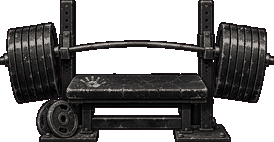
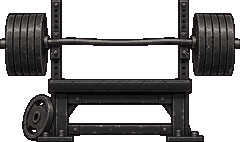
A rack of rivets and a bench in two projections
The dumbbell rack came back with a dozen dumbbells a shelf on a sprite 117
logical px wide - 9 px each - so the small end read as a row of rivets and the
big end as boulders. That was my prompt: three tiers, packed end to end,
visibly enormous from left to right. It is five a shelf now, each as deep as
the shelf gap, largest under twice the smallest.

And the bench was drawn in two projections at once: the frame in flat side
elevation, the pad in three quarter with its top face visible and a chalk
handprint lying on a surface you cannot see from the side. The style block
already said side view; it has to be told explicitly that nothing shows its top
and nothing shows its far side.

diff --git a/CLAUDE.md b/CLAUDE.md
@@ -300,6 +300,19 @@ after all of that the rig still has to be stamped from one frame onto the others
 mask of CHAD that a colour test cannot give you because his vest and boots are as black as the
 steel. Every one of those steps was necessary and every one is still in the git history.
 
+Two rules came out of drawing them as plain furniture afterwards, and both apply to any prop:
+
+- **Count the objects against the pixels.** The rack is 117 logical px wide. Asked for three
+  tiers "packed end to end" with dumbbells "visibly ENORMOUS from left to right" it came back
+  with a dozen a shelf - 9 px each - and the small end read as a row of rivets while the big
+  end read as boulders. State the count as a count: five a shelf, each as deep as the shelf
+  gap, the largest under twice the smallest.
+- **Say the projection out loud.** The shared style block says "seen from the side", and the
+  generator still drew the bench PAD in three quarter - its top face visible, with a chalk
+  handprint lying on a surface you cannot see from the side - while drawing the frame under it
+  in flat elevation. One object, two projections. It has to be told that nothing shows its top
+  and nothing shows its far side.
+
 They are furniture now. The bag is the gym's action and always was; the rack and the bench were
 a second and third way to do the same thing, and the whole apparatus above existed to serve
 them. `keyed_full`, `man_span`, `below_the_bar`, `stamp_rig`, `drop_specks` and `build_rig` all
